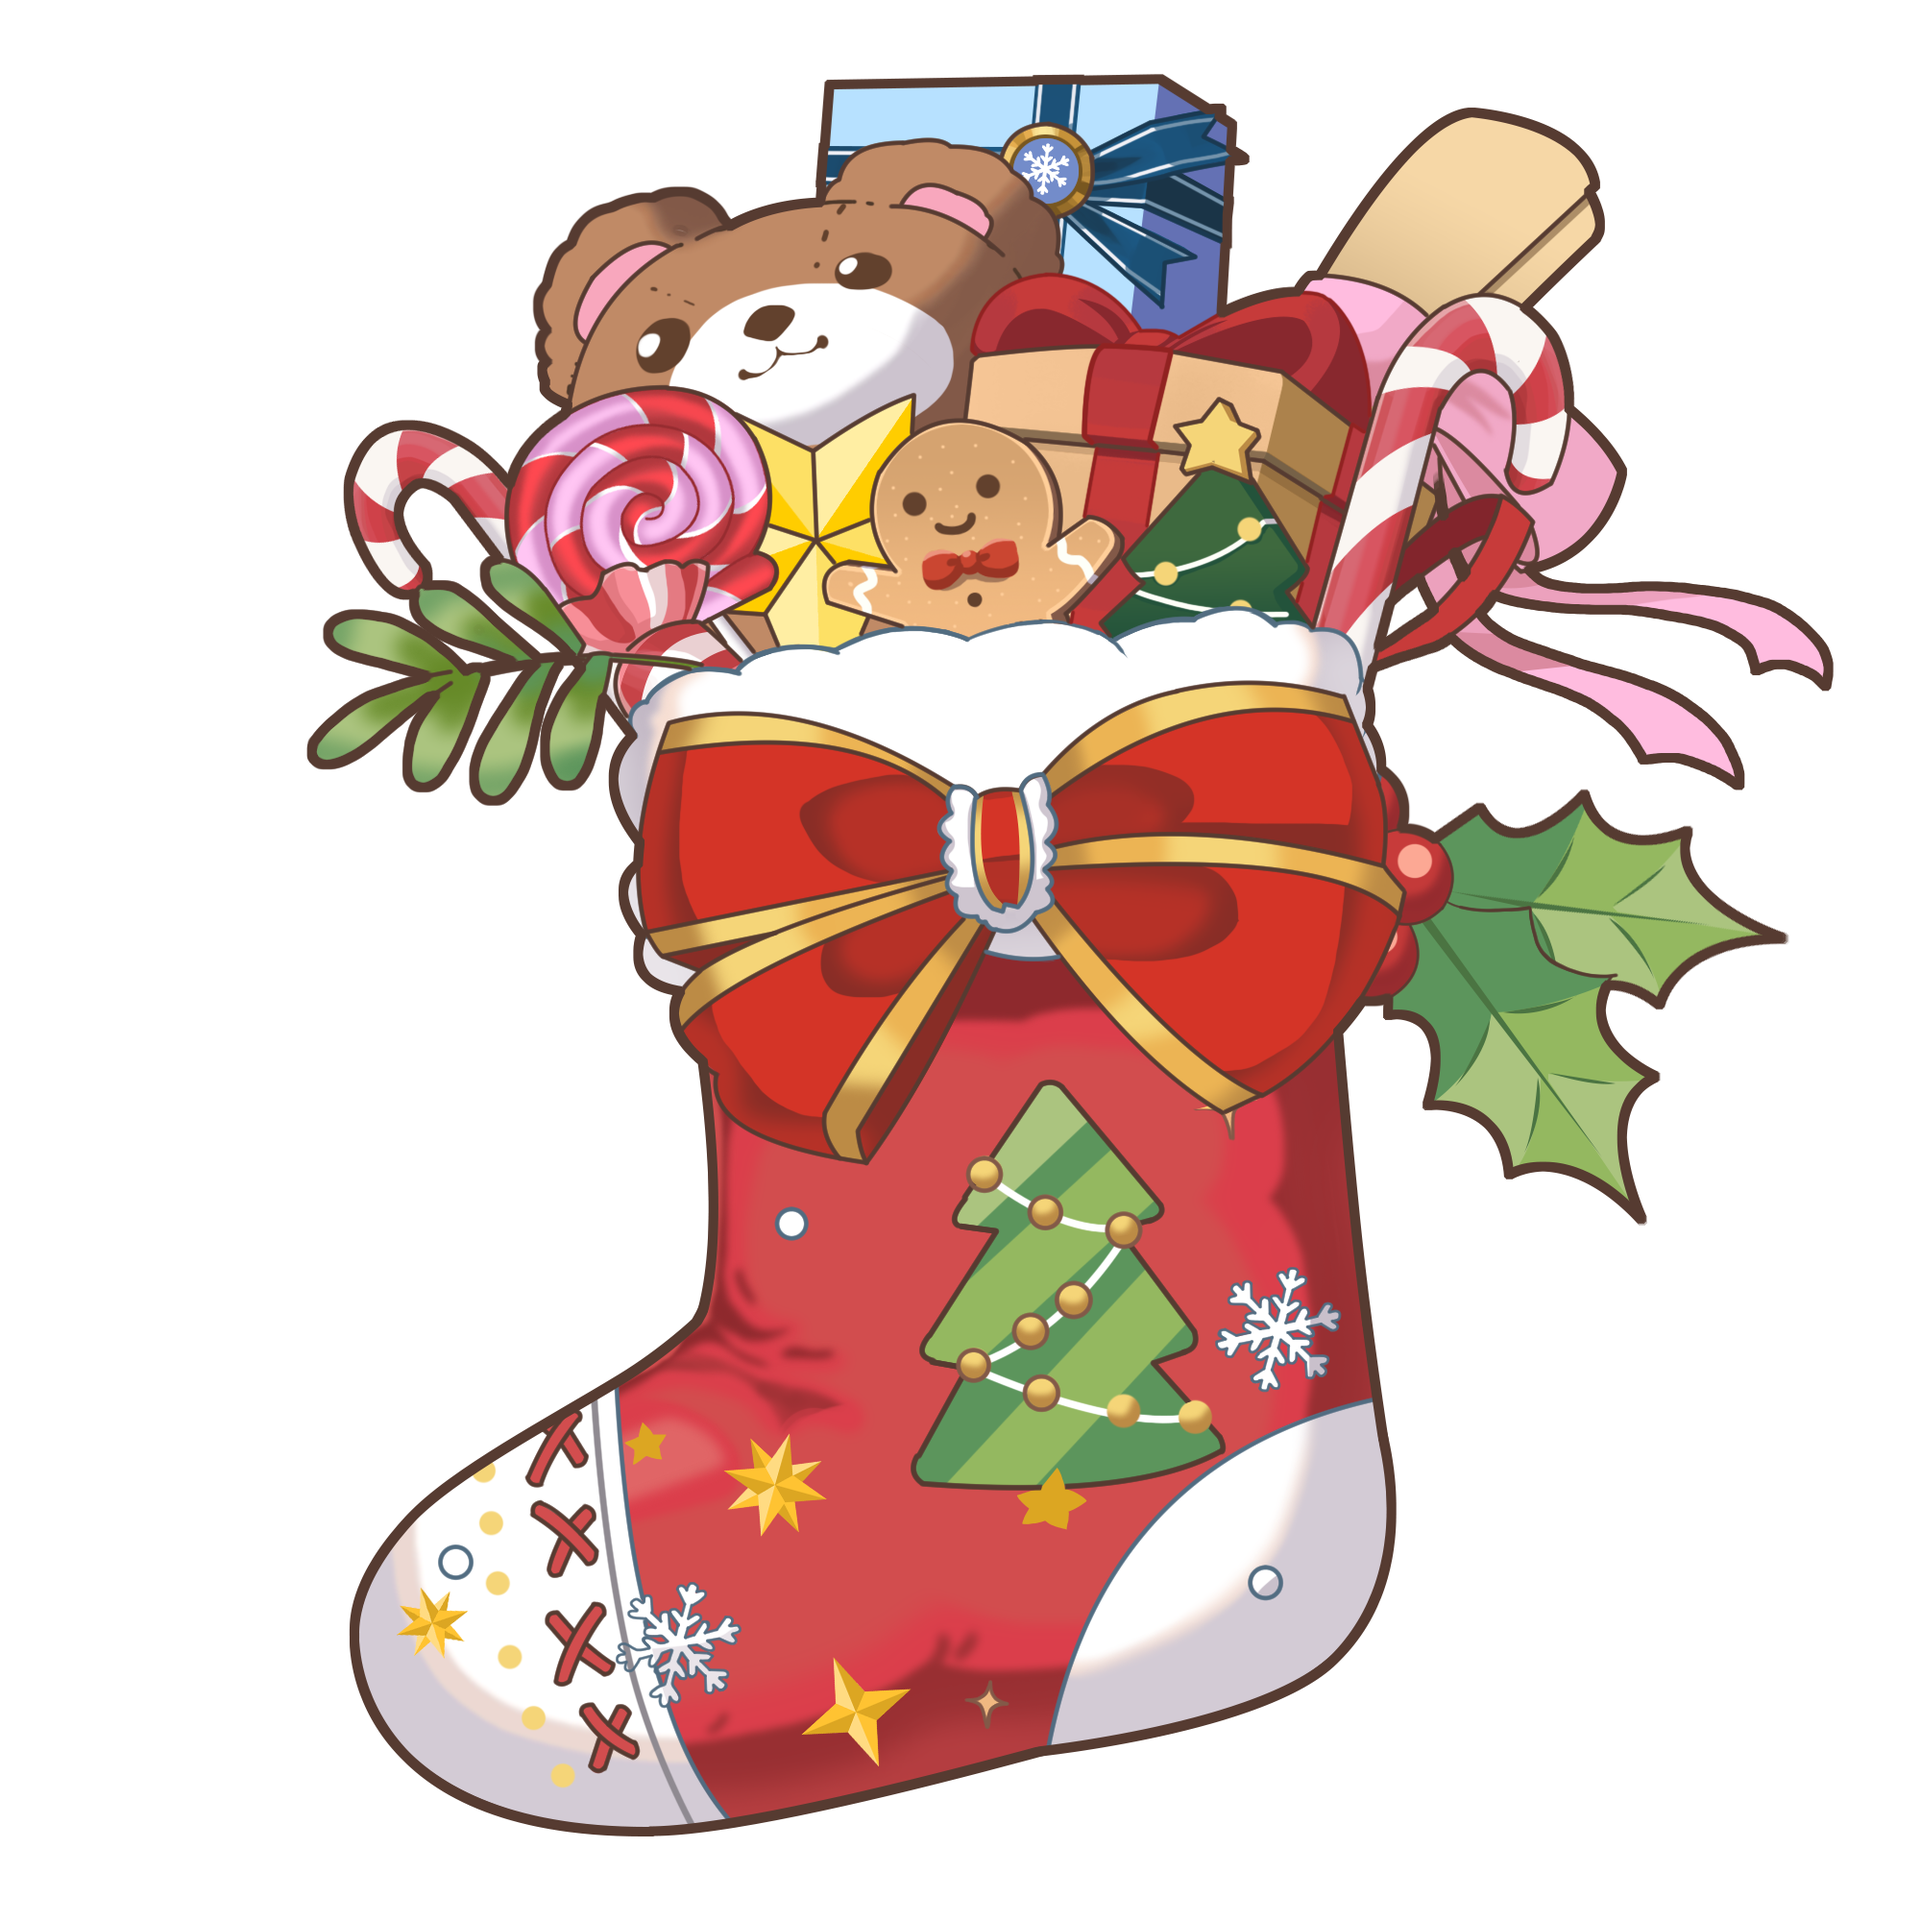
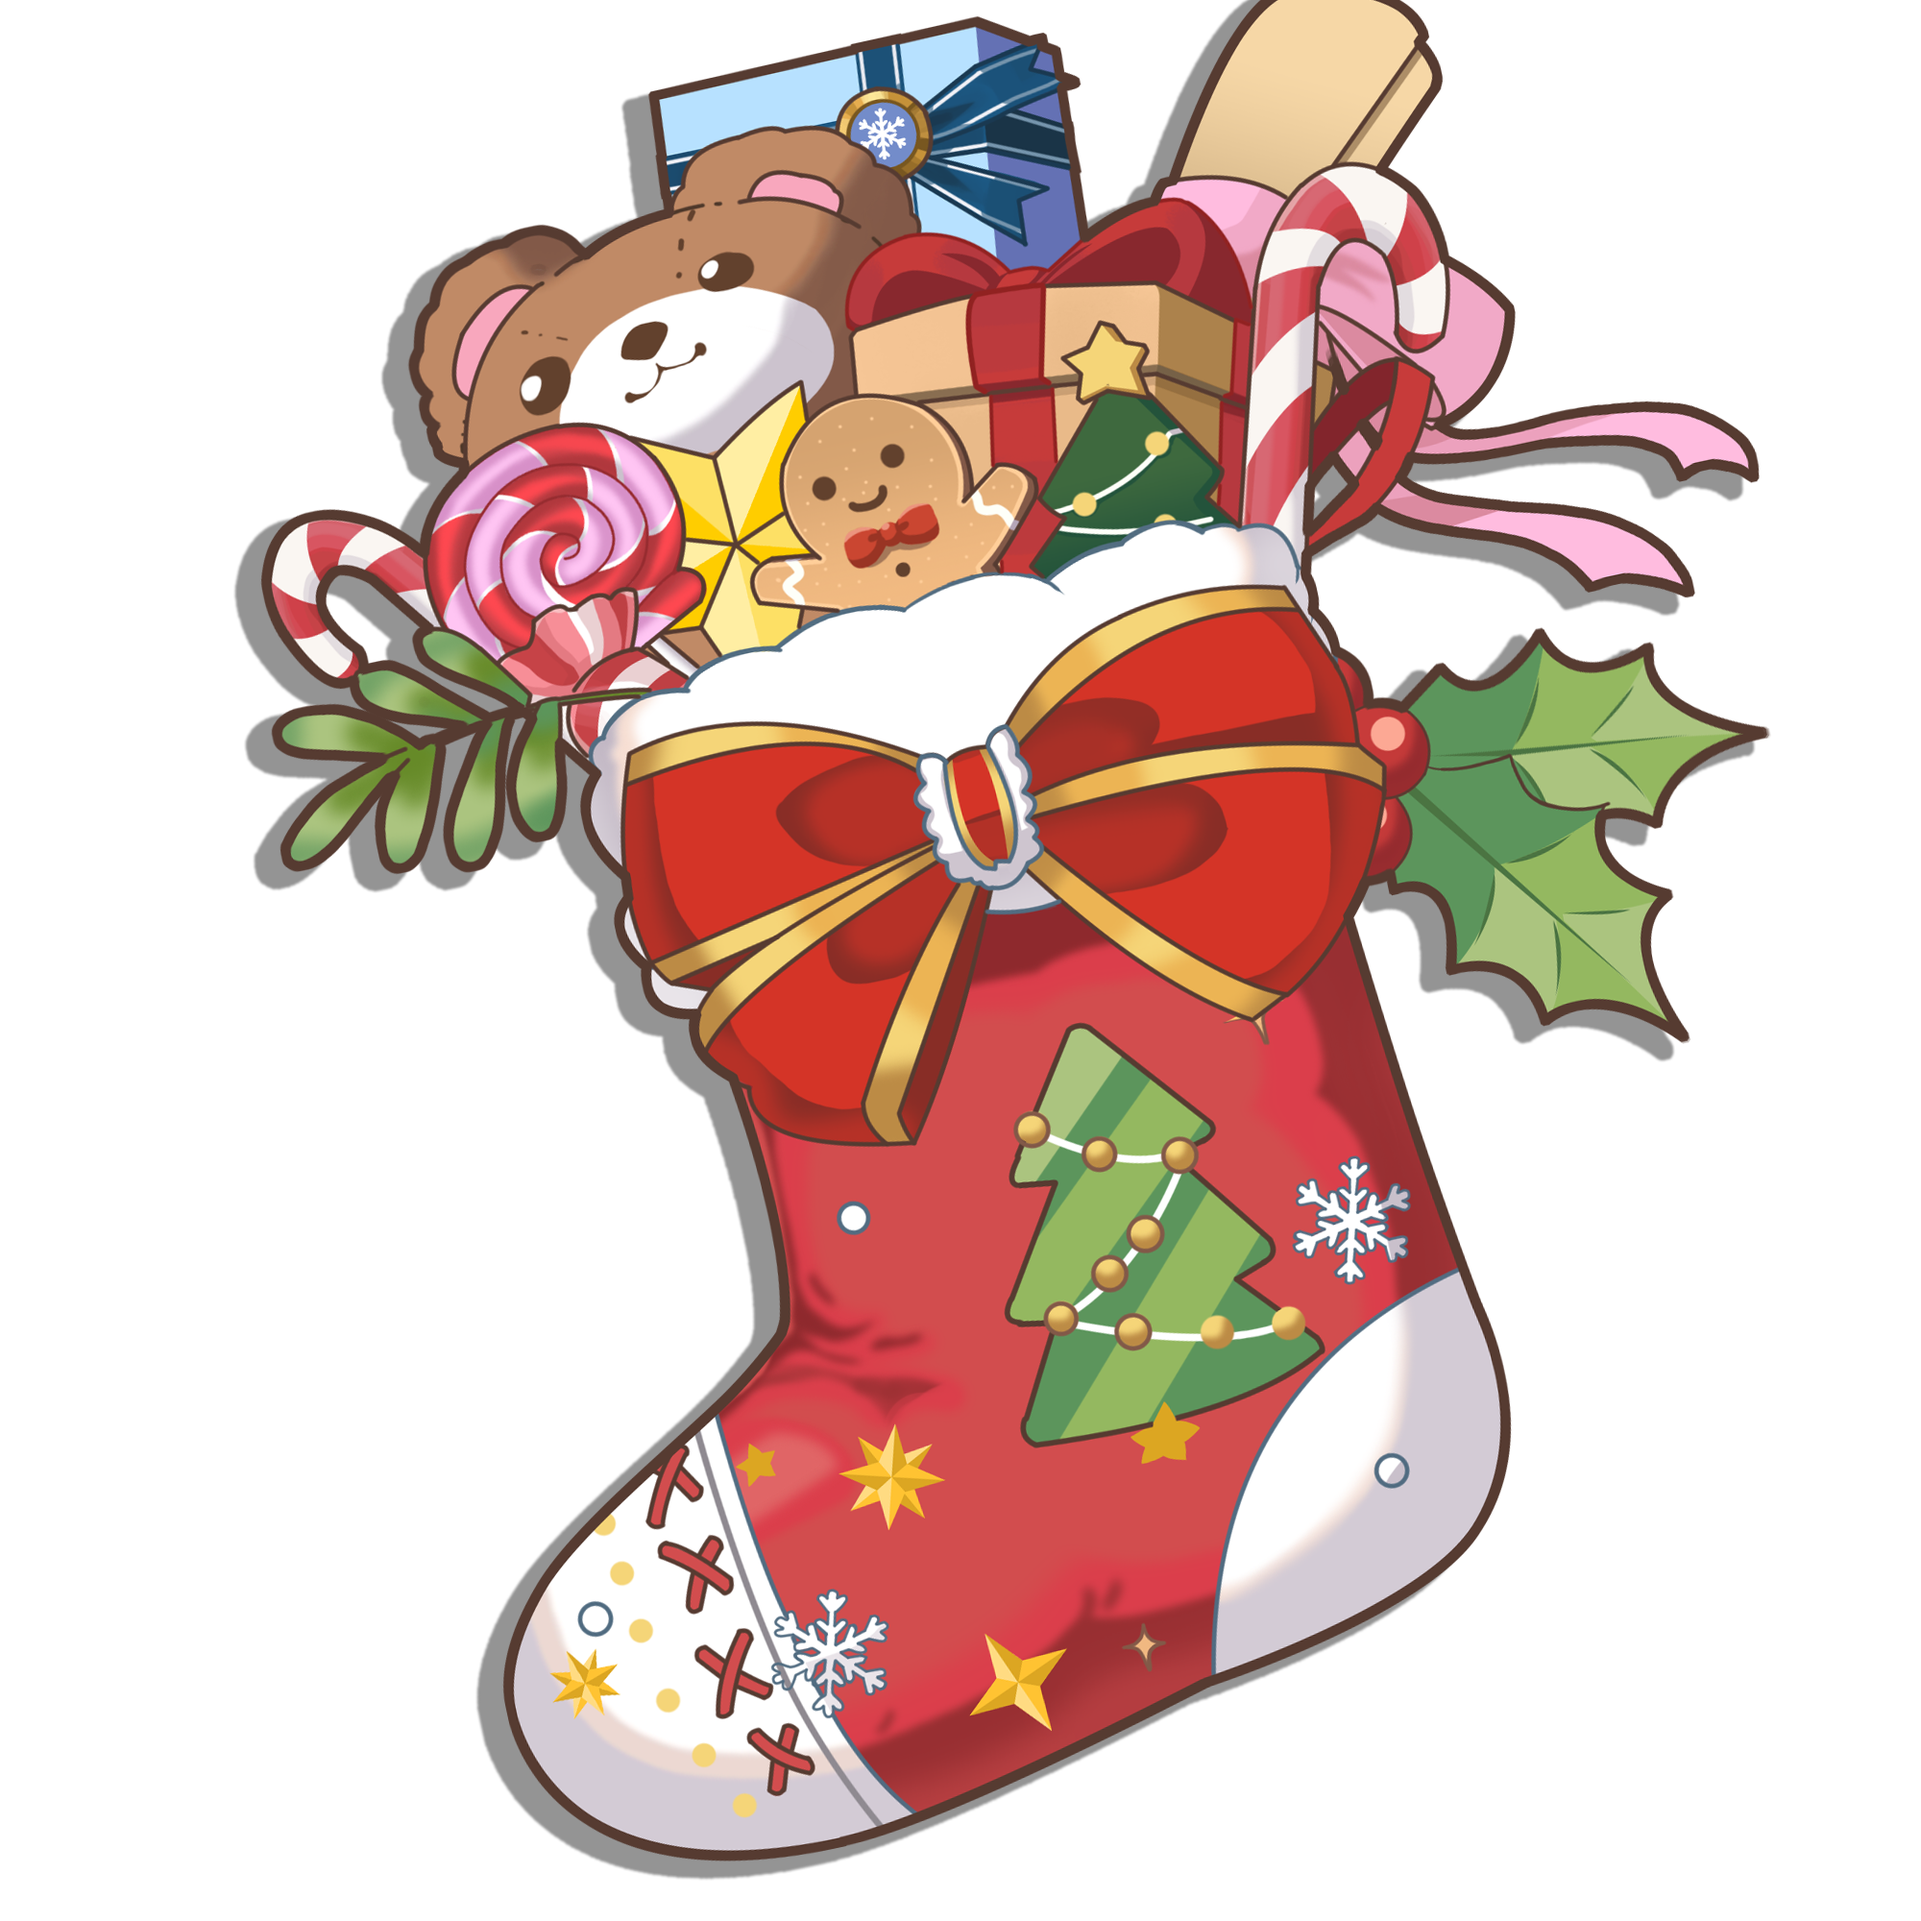
updated image and css settings

diff --git a/app/templates/draw_others.html b/app/templates/draw_others.html
@@ -714,19 +714,19 @@
     .tier-image-1,
     .bg-container .element.sock1 {
         /* left 和 top 由 JavaScript 动态计算 */
-        transform: translate(-50%, -50%) rotate(-15deg) scale(1.5);
+        transform: translate(-50%, -50%) scale(1.5);
     }
     
     .tier-image-2,
     .bg-container .element.sock2 {
         /* left 和 top 由 JavaScript 动态计算 */
-        transform: translate(-50%, -50%) rotate(-15deg) translateY(-35px) scale(1.5);
+        transform: translate(-50%, -50%) scale(1.5);
     }
     
     .tier-image-3,
     .bg-container .element.sock3 {
         /* left 和 top 由 JavaScript 动态计算 */
-        transform: translate(-50%, -50%) rotate(-15deg) scale(1.5);
+        transform: translate(-50%, -50%) scale(1.5);
     }
     
     .tier-image::before,
@@ -748,7 +748,7 @@
     .bg-container .element.sock1:hover {
         opacity: 1;
         visibility: visible;
-        transform: translate(-50%, -50%) rotate(-15deg) scale(1.5) translateY(-5px);
+        transform: translate(-50%, -50%) scale(1.5) translateY(-5px);
         filter: drop-shadow(0 8px 20px rgba(255, 215, 0, 0.7)) drop-shadow(0 4px 12px rgba(0, 0, 0, 0.4));
     }
     
@@ -756,7 +756,7 @@
     .bg-container .element.sock2:hover {
         opacity: 1;
         visibility: visible;
-        transform: translate(-50%, -50%) rotate(-15deg) scale(1.5) translateY(-40px);
+        transform: translate(-50%, -50%) scale(1.5) translateY(-5px);
         filter: drop-shadow(0 8px 20px rgba(255, 215, 0, 0.7)) drop-shadow(0 4px 12px rgba(0, 0, 0, 0.4));
     }
     
@@ -764,7 +764,7 @@
     .bg-container .element.sock3:hover {
         opacity: 1;
         visibility: visible;
-        transform: translate(-50%, -50%) rotate(-15deg) scale(1.5) translateY(-5px);
+        transform: translate(-50%, -50%) scale(1.5) translateY(-5px);
         filter: drop-shadow(0 8px 20px rgba(255, 215, 0, 0.7)) drop-shadow(0 4px 12px rgba(0, 0, 0, 0.4));
     }
     
@@ -780,7 +780,7 @@
     .bg-container .element.sock1.selected {
         opacity: 1 !important;
         visibility: visible !important;
-        transform: translate(-50%, -50%) rotate(-15deg) scale(1.5) translateY(-5px) !important;
+        transform: translate(-50%, -50%) scale(1.5) translateY(-5px) !important;
         filter: 
             drop-shadow(0 0 15px rgba(255, 215, 0, 0.9))
             drop-shadow(0 0 25px rgba(255, 215, 0, 0.5))
@@ -796,7 +796,7 @@
     .bg-container .element.sock2.selected {
         opacity: 1 !important;
         visibility: visible !important;
-        transform: translate(-50%, -50%) rotate(-15deg) scale(1.5) translateY(-40px) !important;
+        transform: translate(-50%, -50%) scale(1.5) translateY(-5px) !important;
         filter: 
             drop-shadow(0 0 15px rgba(255, 215, 0, 0.9))
             drop-shadow(0 0 25px rgba(255, 215, 0, 0.5))
@@ -812,7 +812,7 @@
     .bg-container .element.sock3.selected {
         opacity: 1 !important;
         visibility: visible !important;
-        transform: translate(-50%, -50%) rotate(-15deg) scale(1.5) translateY(-5px) !important;
+        transform: translate(-50%, -50%) scale(1.5) translateY(-5px) !important;
         filter: 
             drop-shadow(0 0 15px rgba(255, 215, 0, 0.9))
             drop-shadow(0 0 25px rgba(255, 215, 0, 0.5))
@@ -1302,8 +1302,10 @@
         
         // 背景图配置
         const bgConfig = {
-          originalWidth: 1920,  // 背景图原始宽度，需要根据实际图片调整
-          originalHeight: 1080, // 背景图原始高度，需要根据实际图片调整
+          //originalWidth: 1920,  // 背景图原始宽度，需要根据实际图片调整
+          //originalHeight: 1080, // 背景图原始高度，需要根据实际图片调整
+          originalWidth: 3840,  // 背景图原始宽度，需要根据实际图片调整
+          originalHeight: 2160, // 背景图原始高度，需要根据实际图片调整
           imageUrl: "{{ url_for('static', filename='background/board.png') }}"
         };
         
@@ -1321,28 +1323,28 @@
           {
             selector: '.element.points-display',
             targetX: 2300,  // ⬅ 修改这个值调整分数显示的X位置
-            targetY: 400,  // ⬅ 修改这个值调整分数显示的Y位置（在头像下方）
+            targetY: 440,  // ⬅ 修改这个值调整分数显示的Y位置（在头像下方）
             anchorX: 0.5,
             anchorY: 0.5
           },
           {
             selector: '.element.sock1, .tier-image-1',
-            targetX: 2350, // ⬅ 修改这个值调整第一个袜子的X位置
-            targetY: 1280,  // ⬅ 修改这个值调整第一个袜子的Y位置
+            targetX: 2330, // ⬅ 修改这个值调整第一个袜子的X位置
+            targetY: 1380,  // ⬅ 修改这个值调整第一个袜子的Y位置
             anchorX: 0.5,
             anchorY: 0.5
           },
           {
             selector: '.element.sock2, .tier-image-2',
-            targetX: 2953, // ⬅ 修改这个值调整第二个袜子的X位置
-            targetY: 1245,  // ⬅ 修改这个值调整第二个袜子的Y位置
+            targetX: 2885, // ⬅ 修改这个值调整第二个袜子的X位置
+            targetY: 1270,  // ⬅ 修改这个值调整第二个袜子的Y位置
             anchorX: 0.5,
             anchorY: 0.5
           },
           {
             selector: '.element.sock3, .tier-image-3',
-            targetX: 3560, // ⬅ 修改这个值调整第三个袜子的X位置
-            targetY: 1300,  // ⬅ 修改这个值调整第三个袜子的Y位置
+            targetX: 3495, // ⬅ 修改这个值调整第三个袜子的X位置
+            targetY: 1410,  // ⬅ 修改这个值调整第三个袜子的Y位置
             anchorX: 0.5,
             anchorY: 0.5
           }

diff --git a/app/templates/draw_home.html b/app/templates/draw_home.html
@@ -5,8 +5,7 @@
   <meta name="viewport" content="width=device-width, initial-scale=1" />
   <title>Main Page</title>
   <!-- 预加载关键图片 -->
-  <link rel="preload" as="image" href="{{ url_for('static', filename='background/board.png') }}">
-  <link rel="preload" as="image" href="{{ url_for('static', filename='draw_button.png') }}">
+  <link rel="preload" as="image" href="{{ url_for('static', filename='background/board_no_text.png') }}">
   <style>
     * {
         box-sizing: border-box;
@@ -21,7 +20,7 @@
         margin: 0; 
         padding: 0; 
         background-color: #fafafa;
-        background-image: url('../static/background/board.png');
+        background-image: url('../static/background/board_no_text.png');
         background-size: cover;
         background-position: center;
         background-repeat: no-repeat;
